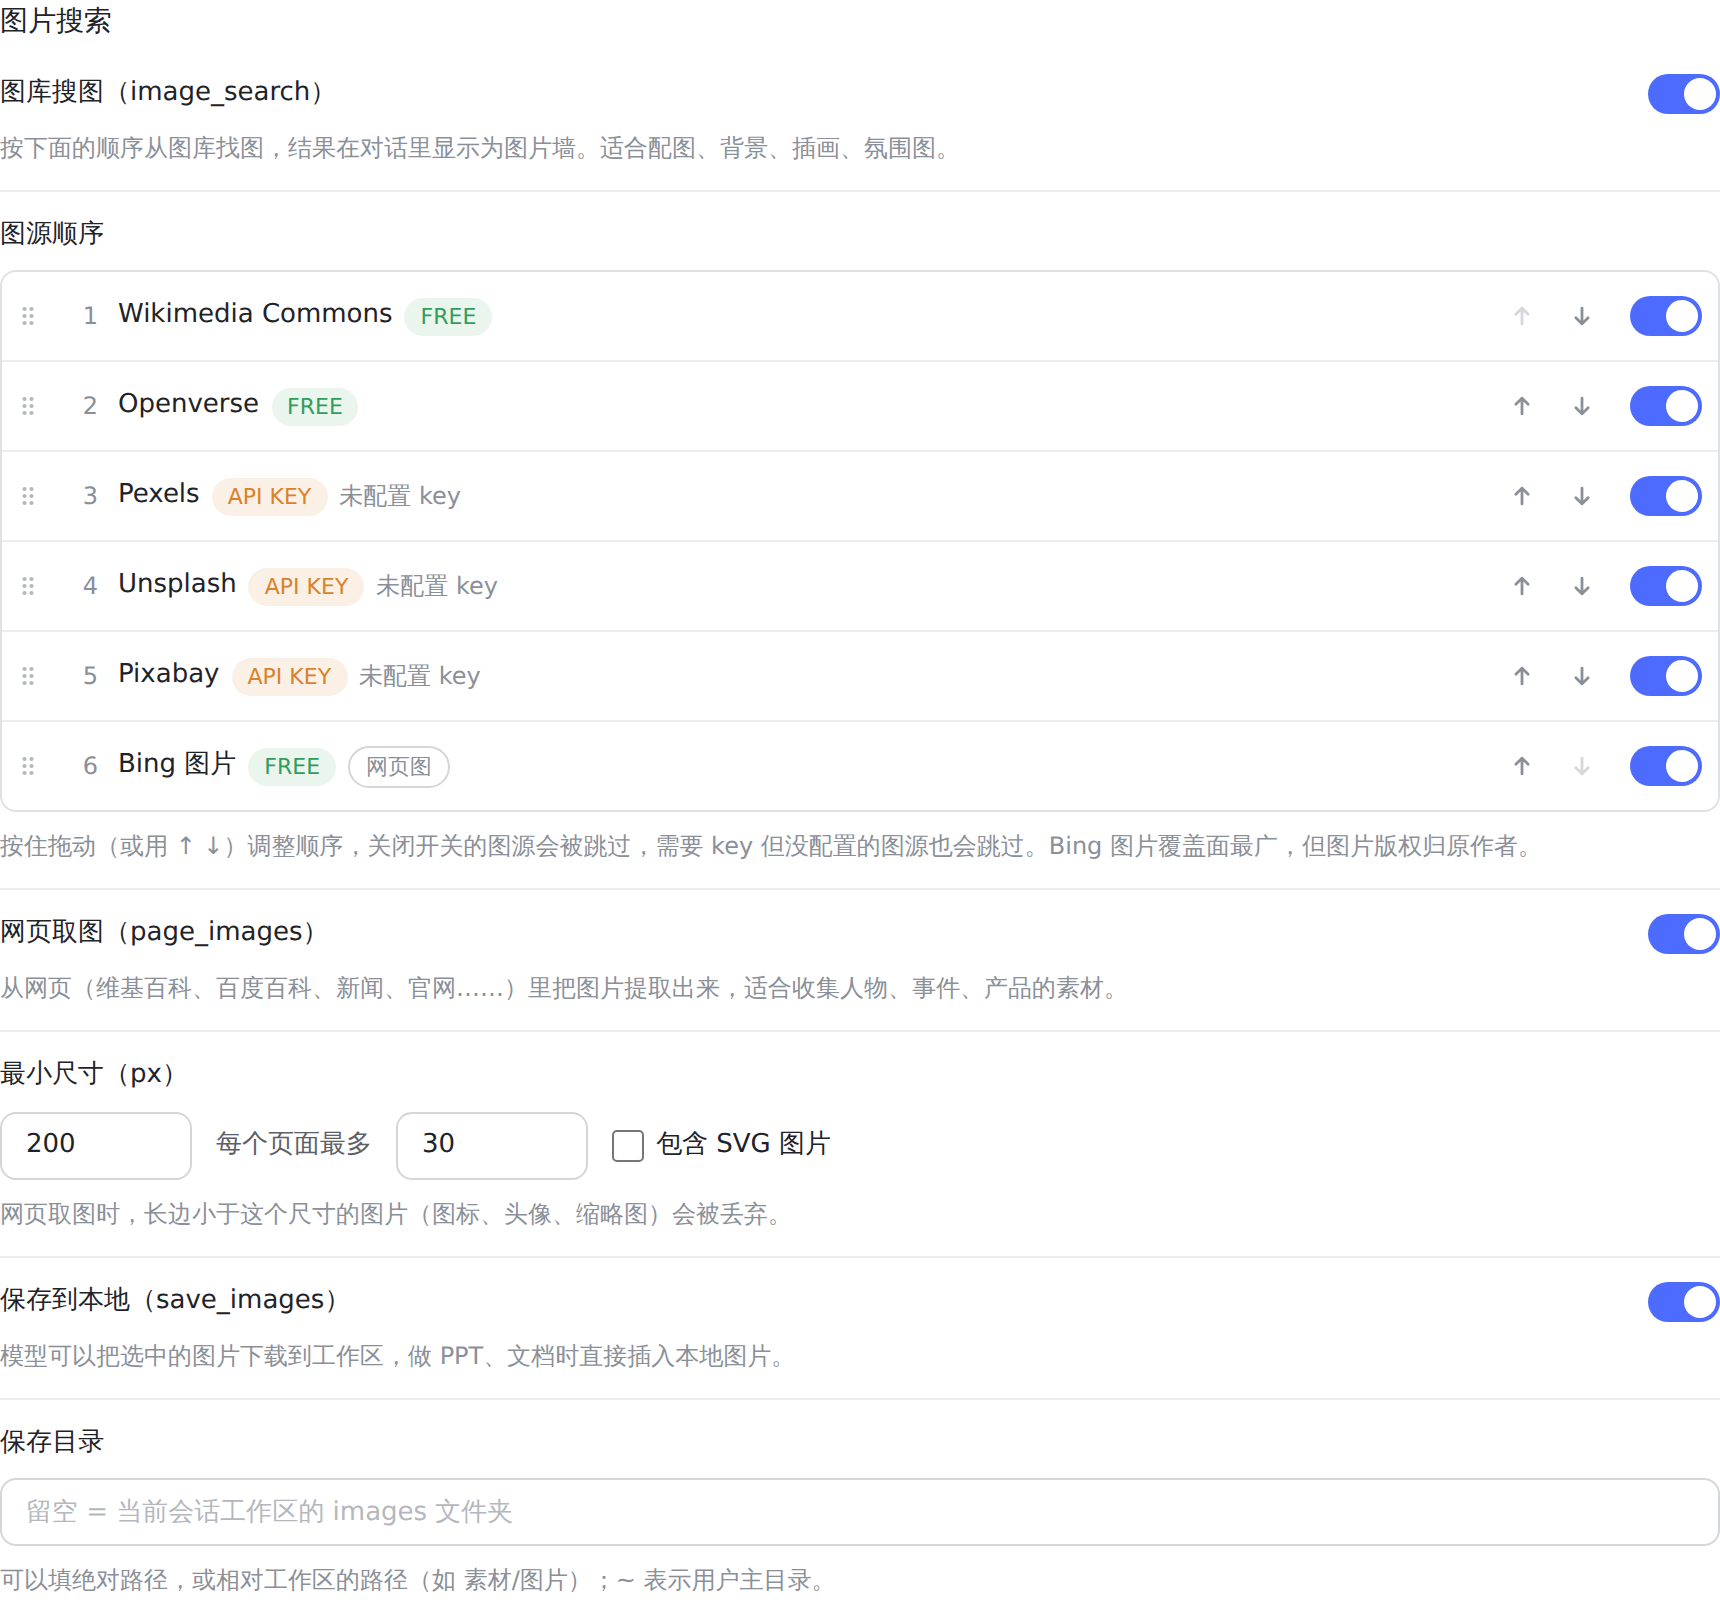
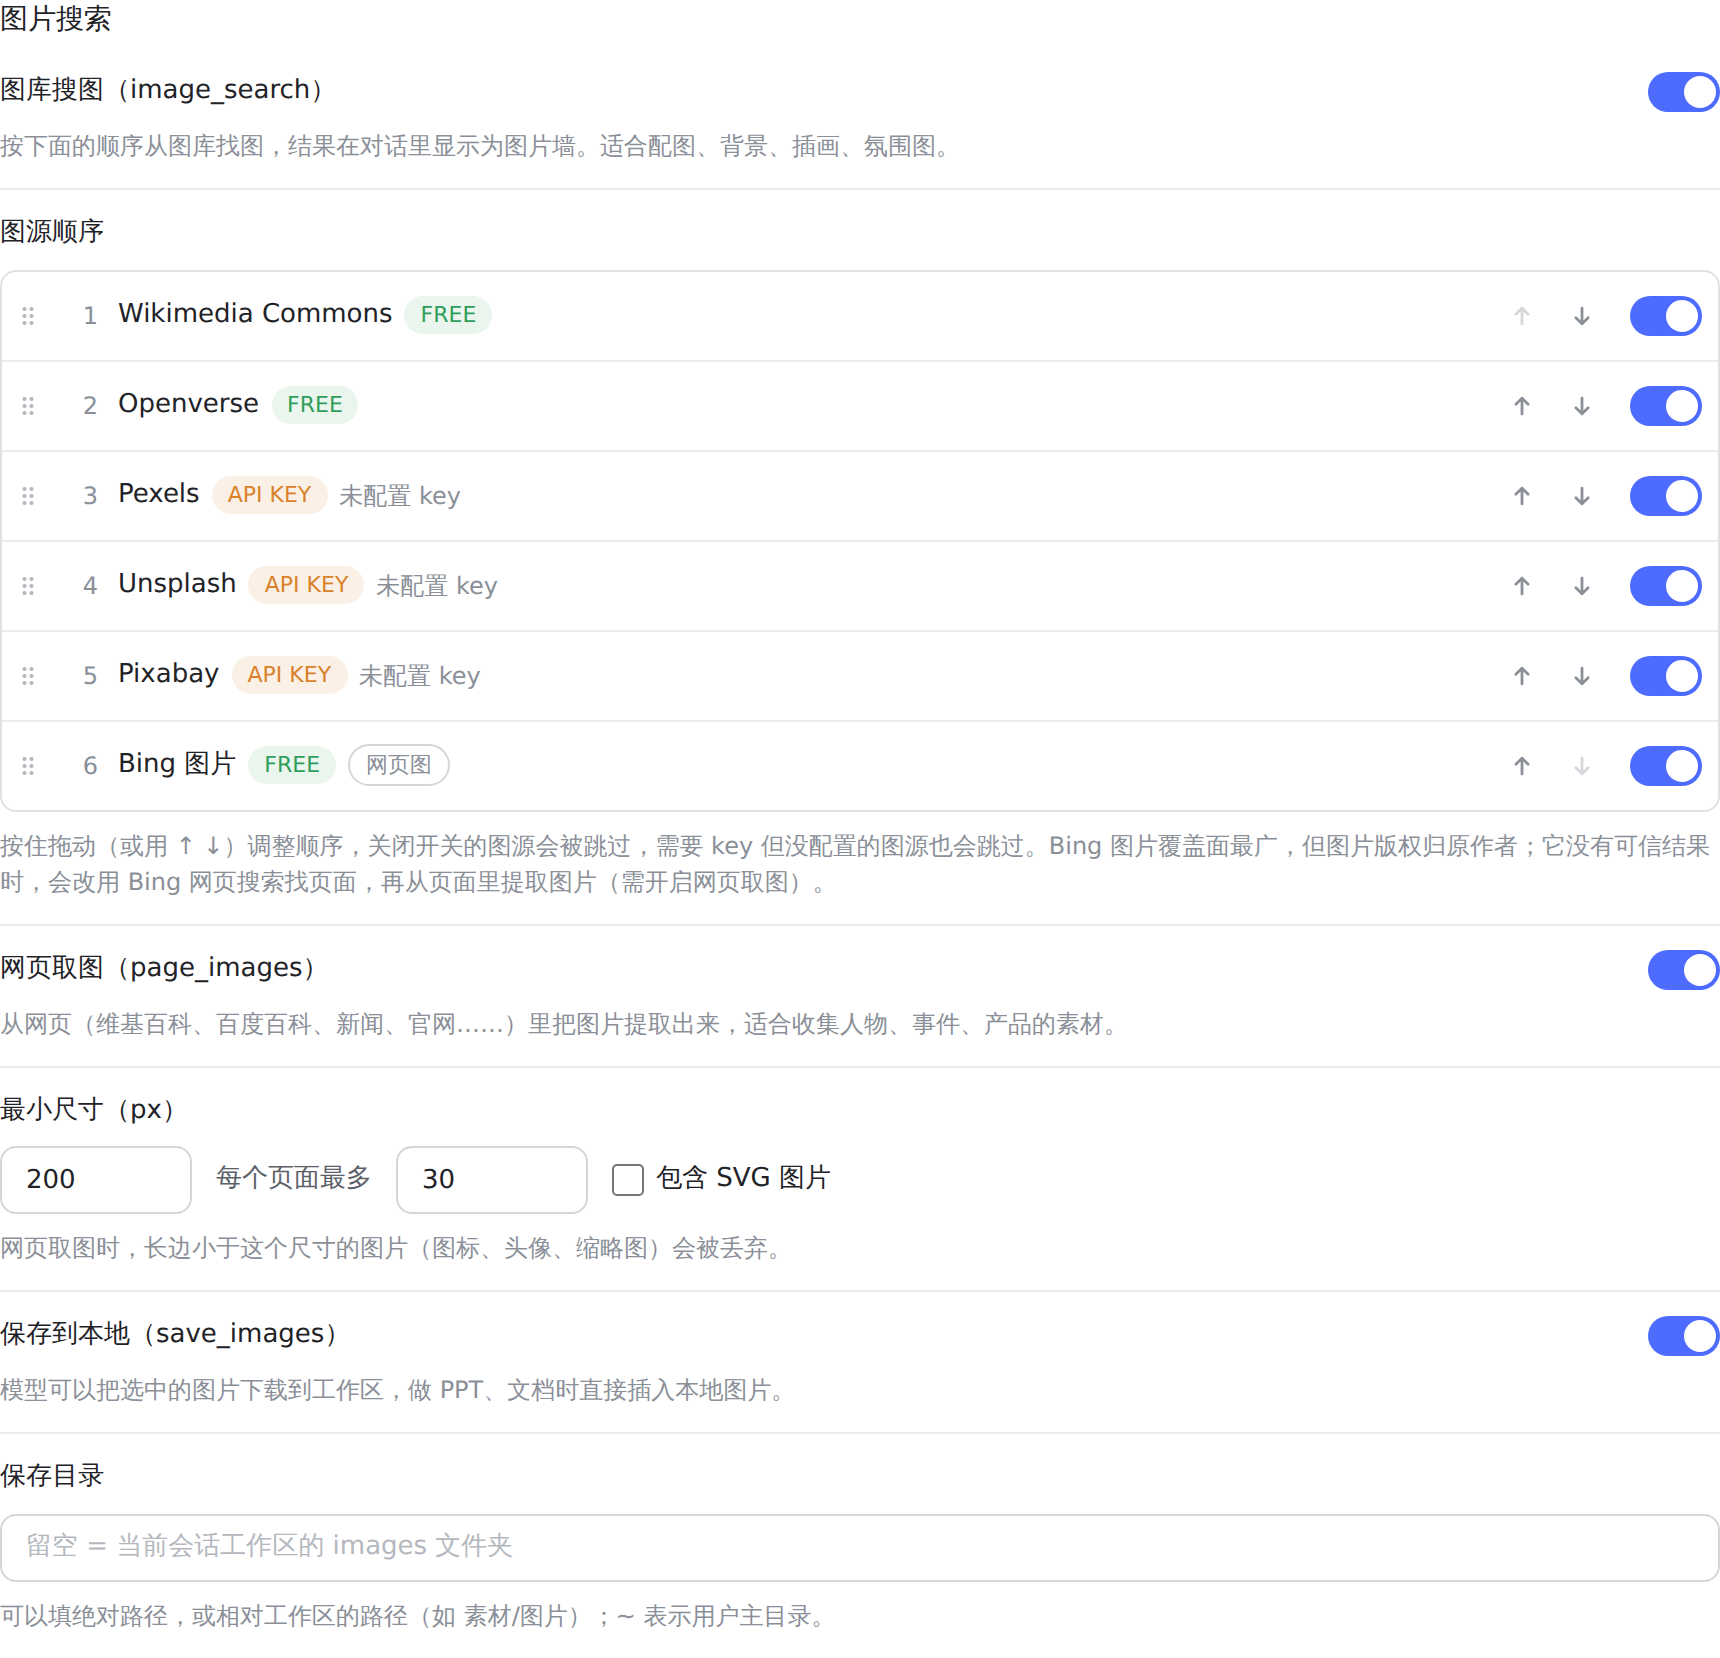
v0.6.1: split the config card into "Web search" / "Image search" views
A segmented switch at the top of the card (DSH SegmentedControl style,
full width) chooses what is shown:
- Web search: search engines, model built-in web search, search results,
  the web engines' API keys, platform search, network proxy
- Image search: the image search section, the Pexels / Unsplash /
  Pixabay keys, network proxy

Both views edit the same settings, so unsaved edits survive a switch and
one Save stores everything. The last view is remembered in the browser
(localStorage, wrapped in try/catch so a blocked storage just falls back
to the web view). README text and screenshots updated.

Claude-Session: https://claude.ai/code/session_019zhQhKdqXfbCj4kTZsKhSy

diff --git a/lib/client.js b/lib/client.js
@@ -157,6 +157,10 @@ window.__ModuleLoader__.load({
       ".dshfs-updatePill:disabled{opacity:.5;cursor:default}",
       "a.dshfs-updatePill{border-color:color-mix(in srgb,var(--dsw-alias-state-business-primary) 40%,transparent);color:var(--dsw-alias-state-business-primary)}",
       ".dshfs-updateIcon{flex:none;display:block}",
+      // 顶部「网页搜索 / 图片搜索」切换：占满卡片宽度，两段等宽
+      ".dshfs-viewSwitch{display:flex;margin-bottom:-12px}",
+      ".dshfs-viewSwitch .dshfs-segmented{flex:1;align-self:stretch}",
+      ".dshfs-viewSwitch .dshfs-segTab{height:32px;font-size:13.5px}",
       ".dshfs-inlineLabel{color:var(--dsw-alias-label-secondary);font-size:13px;line-height:20px}",
       // 对话内图片墙：CSS columns 瀑布流；悬停浮出标题/尺寸；点击打开大图
       ".dshfs-wall{display:flex;flex-direction:column;gap:10px;min-width:0;padding:10px 12px 12px;border:.5px solid var(--dsw-alias-border-l3);border-radius:var(--dsw-radius-lg,12px);background:var(--dsw-alias-bg-layer-3)}",
@@ -265,6 +269,17 @@ window.__ModuleLoader__.load({
       { id: "bing-images", label: "Bing 图片", badge: "FREE", link: "https://www.bing.com/images" },
     ];
     const DEFAULT_IMAGE_ORDER = IMAGE_SOURCES.map((s) => s.id);
+    // 图片图源用的 key：只在「图片搜索」页显示
+    const IMAGE_KEY_IDS = ["pexels", "unsplash", "pixabay"];
+    // 配置卡片当前显示哪一页（网页搜索 / 图片搜索），记在本机浏览器里，读写失败就用默认
+    const VIEW_STORAGE_KEY = "dsh-free-search:settings-view";
+    function readStoredView() {
+      try {
+        return localStorage.getItem(VIEW_STORAGE_KEY) === "images" ? "images" : "web";
+      } catch {
+        return "web";
+      }
+    }
     function normalizeImageOrder(order) {
       const out = [];
       for (const id of Array.isArray(order) ? order : []) if (DEFAULT_IMAGE_ORDER.includes(id) && !out.includes(id)) out.push(id);
@@ -318,6 +333,8 @@ window.__ModuleLoader__.load({
         aliyunPh: (c) => c ? "阿里云百炼密钥（已配置）" : "阿里云 DashScope 密钥（DASHSCOPE_API_KEY）",
         doubaoPh: (c) => c ? "豆包搜索密钥（已配置）" : "豆包 / 火山联网搜索密钥（DOUBAO_SEARCH_API_KEY，每月 500 次免费）",
         secImages: "图片搜索",
+        viewWeb: "网页搜索",
+        viewImages: "图片搜索",
         imgSearchOn: "图库搜图（image_search）",
         imgSearchHint: "按下面的顺序从图库找图，结果在对话里显示为图片墙。适合配图、背景、插画、氛围图。",
         pageImagesOn: "网页取图（page_images）",
@@ -463,6 +480,8 @@ window.__ModuleLoader__.load({
         aliyunPh: (c) => c ? "Aliyun Bailian key (configured)" : "Aliyun DashScope key (DASHSCOPE_API_KEY)",
         doubaoPh: (c) => c ? "Doubao search key (configured)" : "Doubao / Volcano Web Search key (DOUBAO_SEARCH_API_KEY, 500 free/month)",
         secImages: "Image search",
+        viewWeb: "Web search",
+        viewImages: "Image search",
         imgSearchOn: "Image libraries (image_search)",
         imgSearchHint: "Finds pictures in the libraries below, in this order; results show up as an image wall in the chat. Good for illustrations, backgrounds and mood pictures.",
         pageImagesOn: "Images from web pages (page_images)",
@@ -576,7 +595,7 @@ window.__ModuleLoader__.load({
     };
     const tt = (lang) => I18N[lang === "en" ? "en" : "zh"];
     // 当前插件版本（与 lib/index.js 的 PLUGIN_VERSION 保持一致）
-    const PLUGIN_VERSION = "0.6.0";
+    const PLUGIN_VERSION = "0.6.1";
     // 顺序与 DEFAULT_ENGINE_ORDER 一致：免费在前，需要 key 的在后
     const ENGINES = [
       { id: "bing", label: "Bing", badge: "FREE", link: "https://www.bing.com" },
@@ -1401,6 +1420,13 @@ window.__ModuleLoader__.load({
       const [imageMaxPerPage, setImageMaxPerPage] = react.useState(30);
       const [imageIncludeSvg, setImageIncludeSvg] = react.useState(false);
       const [imageSaveDir, setImageSaveDir] = react.useState("");
+      const [view, setViewState] = react.useState(readStoredView);
+      const setView = (next) => {
+        setViewState(next);
+        try {
+          localStorage.setItem(VIEW_STORAGE_KEY, next);
+        } catch {}
+      };
       const [safeSearch, setSafeSearch] = react.useState("off");
       const [bingMarket, setBingMarket] = react.useState("zh-CN");
       // 各引擎 API key 的输入值：{ exaApiKey: "...", ... }（只存用户新输入的，已保存的值脱敏不回显）
@@ -1880,8 +1906,18 @@ window.__ModuleLoader__.load({
 
       const body = h("div", { className: "dshfs-body" },
         !ready ? h("p", { className: "dshfs-banner" }, t.unavailable) : null,
+        h("div", { className: "dshfs-viewSwitch" },
+          h(Segmented, {
+            value: view,
+            onChange: setView,
+            options: [
+              { value: "web", label: t.viewWeb },
+              { value: "images", label: t.viewImages },
+            ],
+          })
+        ),
 
-        h(Section, { title: t.secEngines },
+        view === "web" && h(Section, { title: t.secEngines },
           h(Field, { label: t.priorityMode, hint: priorityMode === "list" ? t.modeListHint : t.modePreferredHint },
             h(Segmented, {
               value: priorityMode,
@@ -1916,7 +1952,7 @@ window.__ModuleLoader__.load({
           }, orderList)
         ),
 
-        h(Section, { title: t.secModelSearch, aside: h(Tag, { tone: "warning" }, t.paidTag) },
+        view === "web" && h(Section, { title: t.secModelSearch, aside: h(Tag, { tone: "warning" }, t.paidTag) },
           h(Field, {
             label: t.modelSearchEnable,
             control: h(Switch, { checked: openaiOn, label: t.modelSearchEnable, disabled: busy, onChange: (on) => setEngineEnabled("openai", on) }),
@@ -1935,7 +1971,7 @@ window.__ModuleLoader__.load({
             : null
         ),
 
-        h(Section, { title: t.secImages },
+        view === "images" && h(Section, { title: t.secImages },
           h(Field, { label: t.imgSearchOn, control: h(Switch, { checked: imageSearchOn, label: t.imgSearchOn, disabled: busy, onChange: edit(setImageSearchOn) }), hint: t.imgSearchHint }),
           imageSearchOn
             ? h(Field, { label: t.imageOrder, hint: t.imageOrderHint },
@@ -2011,7 +2047,7 @@ window.__ModuleLoader__.load({
             : null
         ),
 
-        h(Section, { title: t.secResults },
+        view === "web" && h(Section, { title: t.secResults },
           h(Field, { label: t.safeSearchLabel, hint: t.safeSearchHint },
             h(Select, {
               value: safeSearch,
@@ -2053,7 +2089,7 @@ window.__ModuleLoader__.load({
 
         h(Section, { title: t.apiKeys },
           h(Field, { hint: t.keysHint },
-            h("div", { className: "dshfs-keys" }, KEY_IDS.filter((id) => id !== "openai").map(keyRow))
+            h("div", { className: "dshfs-keys" }, KEY_IDS.filter((id) => id !== "openai" && (view === "images") === IMAGE_KEY_IDS.includes(id)).map(keyRow))
           ),
           h(Field, {
             label: t.keyStorage,
@@ -2072,7 +2108,7 @@ window.__ModuleLoader__.load({
           })
         ),
 
-        h(Section, { title: t.platformSearch },
+        view === "web" && h(Section, { title: t.platformSearch },
           h(Field, { hint: t.platformHint },
             h("div", { className: "dshfs-checks" },
               PLATFORM_LABELS.map(([id, label]) =>

diff --git a/lib/index.js b/lib/index.js
@@ -128,7 +128,7 @@ function buildEngineChain(cfg, { engine, timeRange, query } = {}) {
 }
 
 // 当前插件版本（发布时与 package.json 同步）
-const PLUGIN_VERSION = "0.6.0";
+const PLUGIN_VERSION = "0.6.1";
 // npm 包名（与 package.json 的 name、lib/client.js 的 PACKAGE_NAME 一致）
 const PACKAGE_NAME = "@copylee/dsh-free-search";
 // 检查更新的 npm registry 元数据地址（scoped 包名里的 / 要编码成 %2f）

diff --git a/README.en.md b/README.en.md
@@ -309,7 +309,7 @@ For slides and research material you can ask the agent for pictures directly: "c
 </div>
 
 - **Image wall**: thumbnails and full images are fetched through the plugin's own endpoint with the source page as Referer, so hotlink-protected pictures (e.g. Baidu Baike) still show; the per-engine proxy applies too (tick the image sources or "page images / downloads" under Network proxy).
-- **"Image search" settings section**: switch each tool on or off (a switched-off tool is removed from the agent's tool list); drag to reorder sources and switch them individually; set the minimum size for page images (default 200px), the maximum per page and whether to include SVG; leave the save folder empty to use the workspace's `images/`, or give an absolute or relative path.
+- **"Image search" settings**: a switch at the top of the config card flips between "Web search" and "Image search" (the choice is remembered), so the two sets of settings are shown separately; switch each tool on or off (a switched-off tool is removed from the agent's tool list); drag to reorder sources and switch them individually; set the minimum size for page images (default 200px), the maximum per page and whether to include SVG; leave the save folder empty to use the workspace's `images/`, or give an absolute or relative path.
 - **API keys**: Pexels (<https://www.pexels.com/api/>), Unsplash (<https://unsplash.com/developers>) and Pixabay (<https://pixabay.com/api/docs/>) are free; fill them under API keys or in the credential center as `PEXELS_API_KEY`, `UNSPLASH_ACCESS_KEY`, `PIXABAY_API_KEY`.
 - **Safety**: the plugin only fetches public addresses (loopback, private and link-local addresses are refused, and every redirect hop is checked), accepts image content types only, and caps each file at 30 MiB.
 - **Copyright**: Wikimedia / Openverse / stock results carry author and license info; pictures from web pages and Bing Images belong to their owners — fine as reference material, check the license before publishing.

diff --git a/README.md b/README.md
@@ -309,7 +309,7 @@ DSH 的 base bundle 出厂就把 `web.searchProvider` 设为官方的 `deepseek-
 </div>
 
 - **图片墙**：缩略图和大图都经插件自己的接口取回，自动带来源页作为 Referer，所以百度百科这类有防盗链的图片也能显示；按引擎代理的设置同样生效（在「网络代理」里勾选对应图源或「网页取图 / 图片下载」）。
-- **设置页「图片搜索」分区**：三个工具各自开关（关掉的工具会从 agent 的工具列表里移除）；图源顺序可以拖动、逐个开关；网页取图可设最小尺寸（默认 200px）、每页最多张数、是否包含 SVG；保存目录留空就用会话工作区的 `images/`，也可以填绝对路径或相对路径。
+- **设置页「图片搜索」**：配置卡片顶部可以在「网页搜索 / 图片搜索」之间切换（记住上次的选择），两边的配置分开显示，不用往下滚很久；三个工具各自开关（关掉的工具会从 agent 的工具列表里移除）；图源顺序可以拖动、逐个开关；网页取图可设最小尺寸（默认 200px）、每页最多张数、是否包含 SVG；保存目录留空就用会话工作区的 `images/`，也可以填绝对路径或相对路径。
 - **API key**：Pexels（<https://www.pexels.com/api/>）、Unsplash（<https://unsplash.com/developers>）、Pixabay（<https://pixabay.com/api/docs/>）都能免费申请，填在「API 密钥」里，或写进凭据中心：`PEXELS_API_KEY`、`UNSPLASH_ACCESS_KEY`、`PIXABAY_API_KEY`。
 - **安全**：插件只访问公网地址（拒绝本机、内网、链路本地地址，重定向每一跳都会检查），只接受图片类型，单张不超过 30 MiB。
 - **版权**：Wikimedia / Openverse / 图库结果会带上作者和授权信息；网页和 Bing 图片的版权归原作者，适合做素材参考，公开发布前请确认授权。
